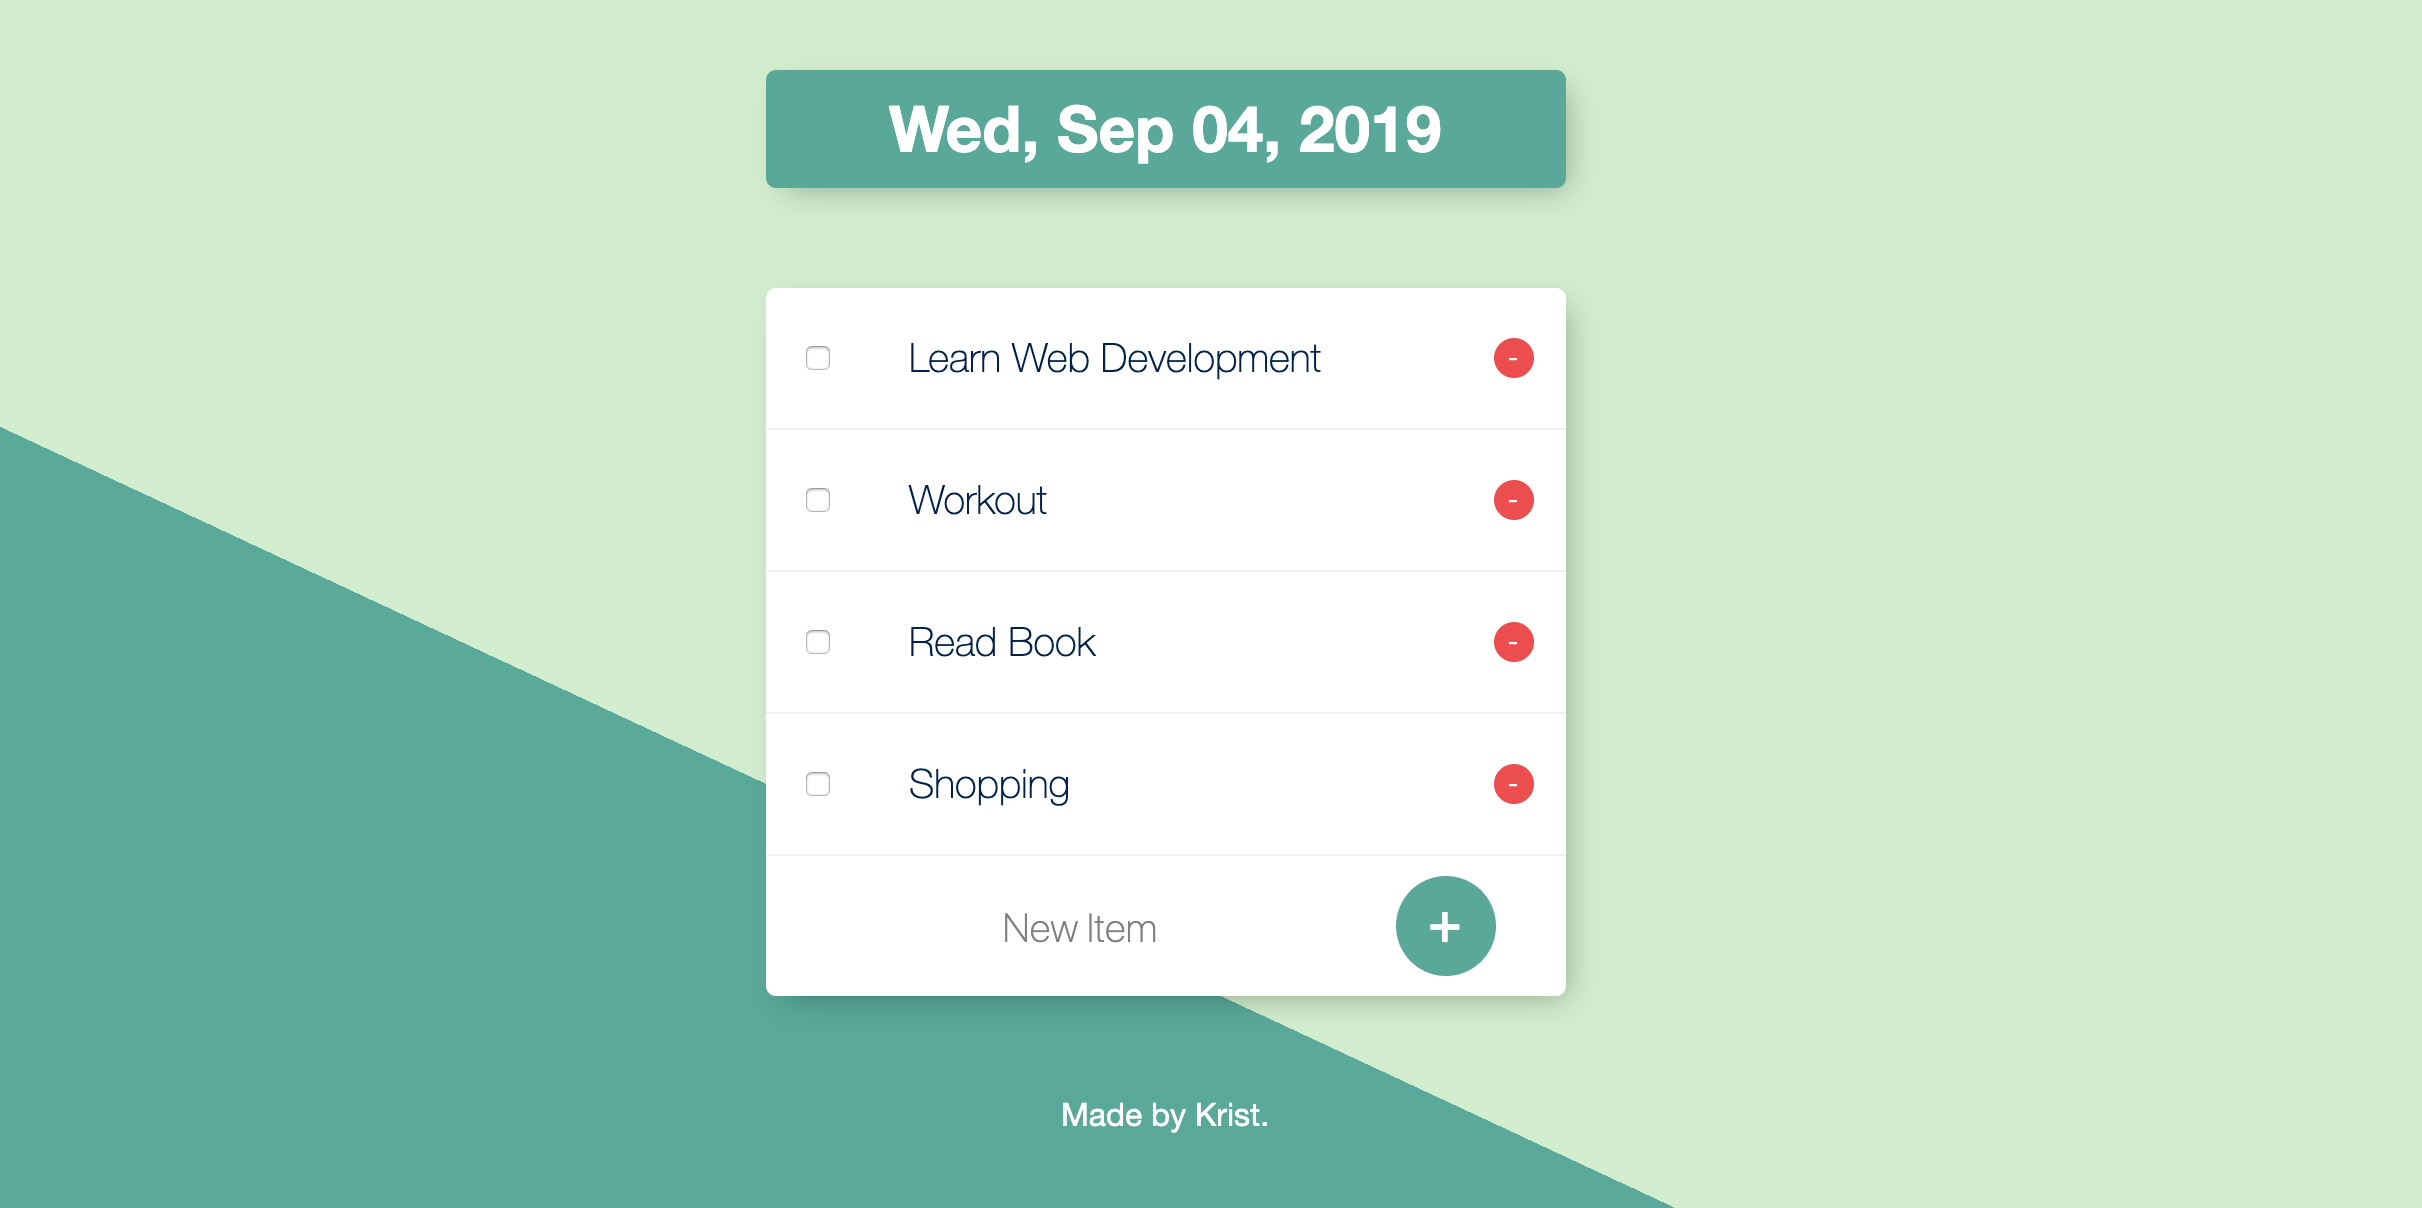
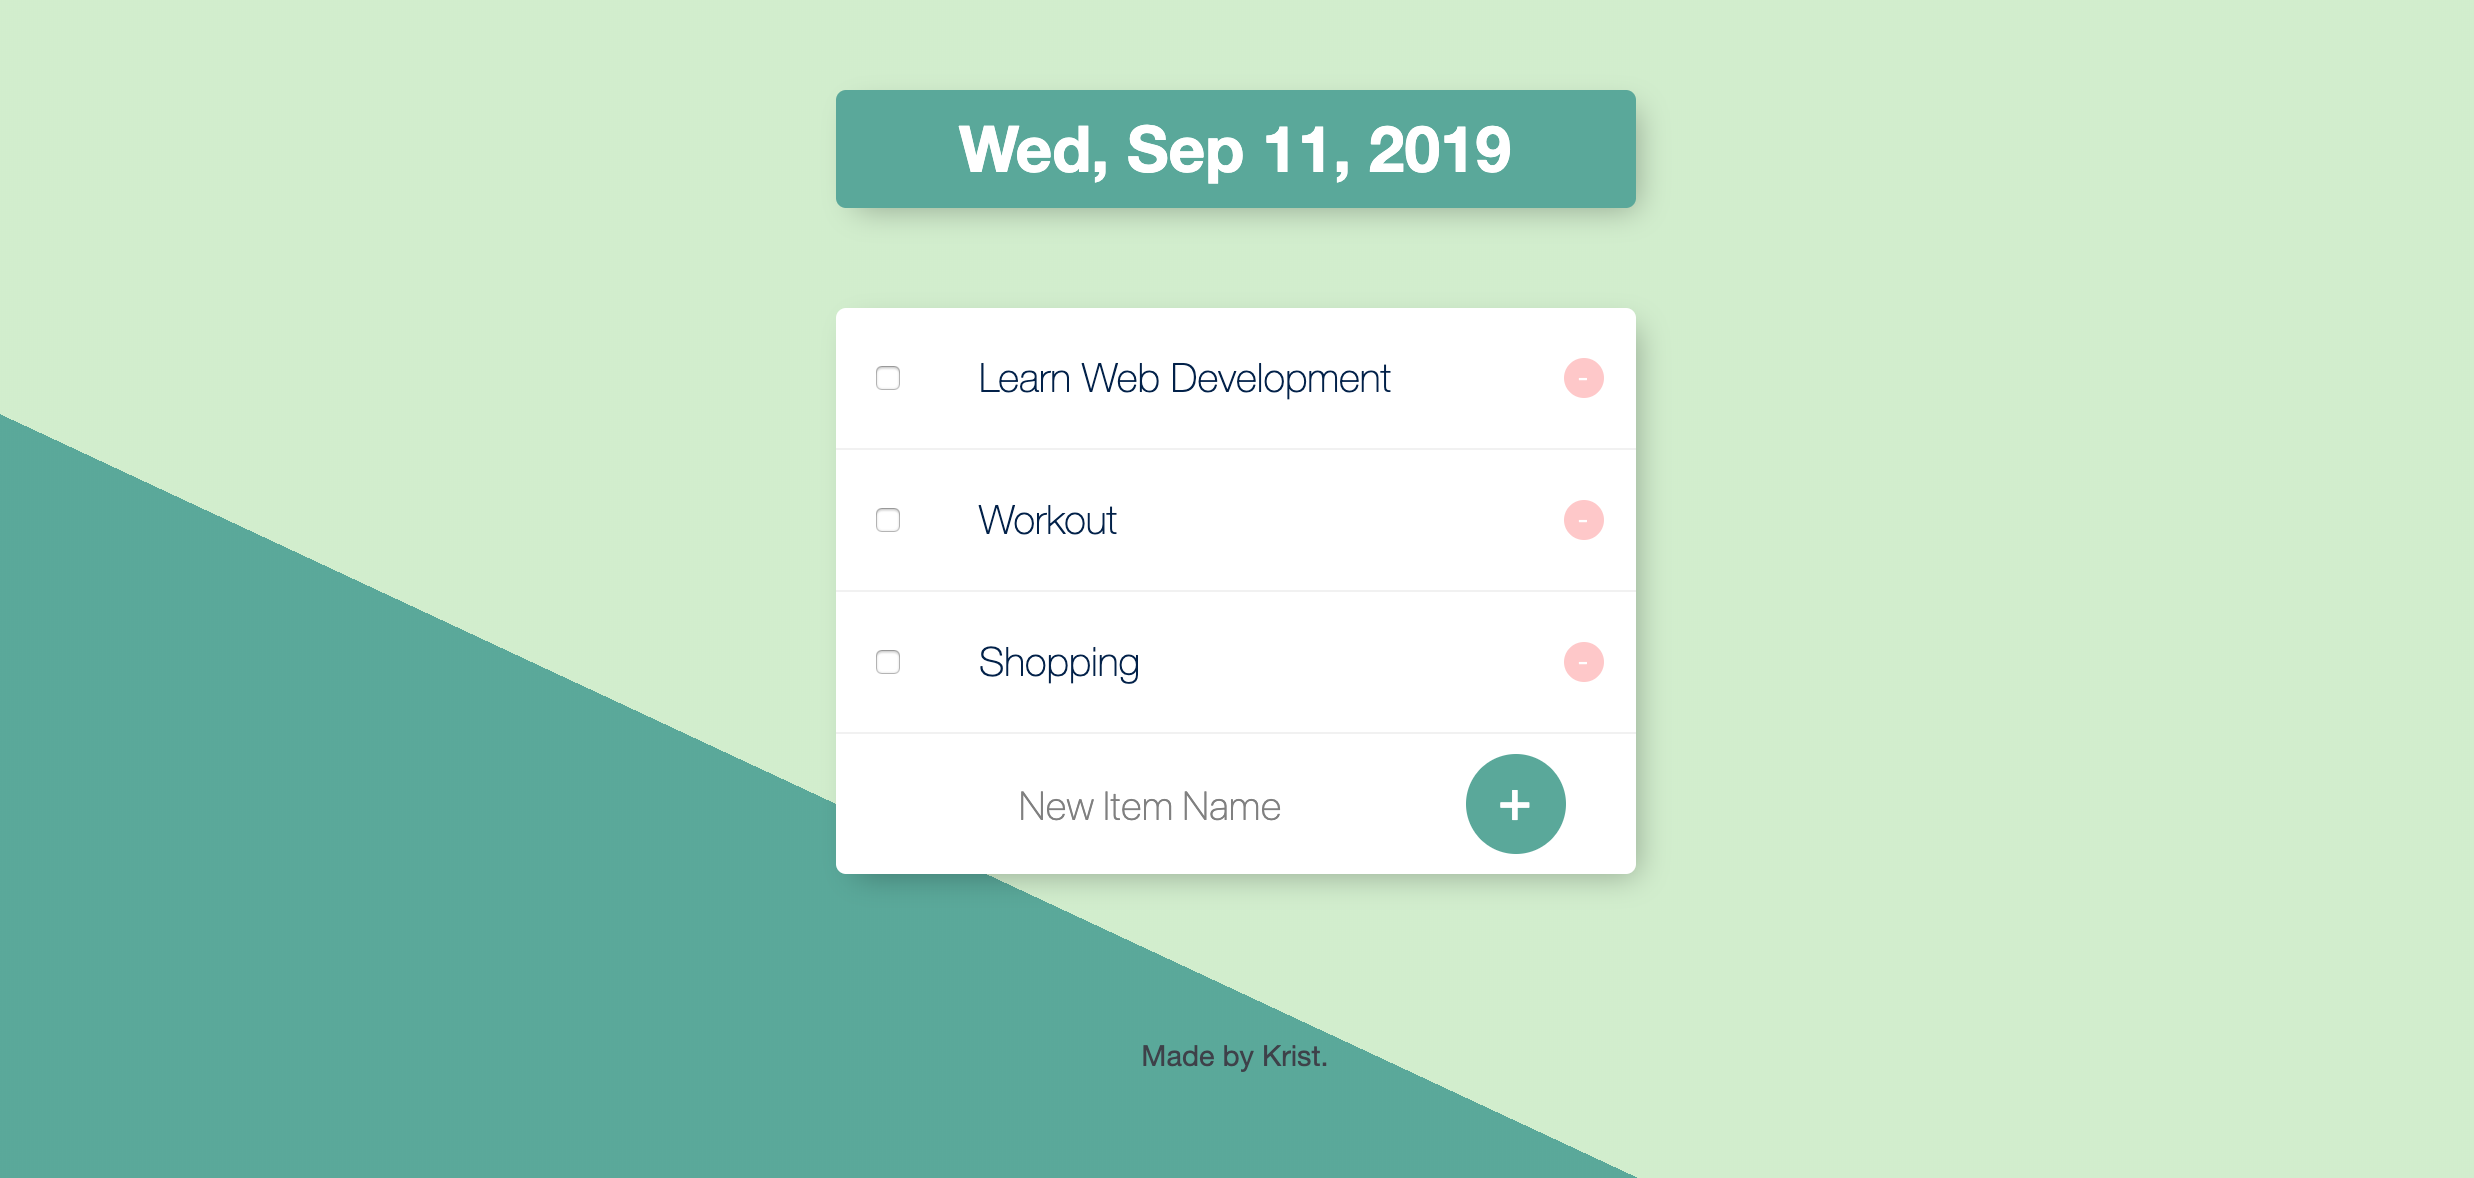
1. Implement database using Mongoose 2. Edit CSS: add hover status to buttons 3. Update screenshot 4. Delete the redundant demo file

diff --git a/app.js b/app.js
@@ -10,23 +10,57 @@ app.use(bodyParser.urlencoded({extended: true}));
 app.use(express.static("public"));
 app.set('view engine', 'ejs');
 
-var things = ["Learn Web Development", "Workout", "Shopping"];
+mongoose.connect("mongodb://localhost:27017/todolistDB", {
+  useNewUrlParser: true,
+  useUnifiedTopology: true
+});
+
+const itemSchema = {
+  name: {
+    type: String,
+    required: [true, "No Name Specified"]
+  }
+};
+
+const Item = mongoose.model("Item", itemSchema);
+
+// const item1 = new Item({ name: "Learn Web Development" });
+// const item2 = new Item({ name: "Workout" });
+// const item3 = new Item({ name: "Shopping" });
+// const defaultItems = [item1, item2, item3];
 
 app.get("/", function(req, res) {
-  res.render('index', {date: date.getDate(), things: things});
+  Item.find({}, function(err, foundItems) {
+    // if the item list is empty, return the default item list
+    // if(foundItems.length === 0) {
+    //   Item.insertMany(defaultItems, function(err) {
+    //     console.log("Successfully Saved Default Items to Database.");
+    //   });
+    //   res.redirect("/");
+    // } else {
+    //   res.render('index', {date: date.getDate(), items: foundItems});
+    // }
+    res.render('index', {date: date.getDate(), items: foundItems});
+  });
 });
 
 app.post("/", function(req, res) {
-  let newItem = req.body.newItem;
-  if (newItem) {
-    things.push(newItem);
+  let newItemName = req.body.newItemName;
+
+  if (newItemName) {
+    let newItem = new Item({name: newItemName});
+    newItem.save(function(err){
+      console.log("Successfully Saved New Item to Database.");
+    });
   }
   res.redirect("/");
 });
 
 app.post("/delete", function(req, res) {
-  let deleteItem = req.body.deleteItem;
-  things.splice(things.indexOf(deleteItem), 1);
+  let deleteItemId = req.body.deleteItemId;
+  Item.deleteOne({_id: deleteItemId}, function(err) {
+    console.log("Successfully Deleted Item from Database.");
+  });
   res.redirect("/");
 });
 

diff --git a/public/css/style.css b/public/css/style.css
@@ -68,14 +68,23 @@ p {
   border-width: 0;
 }
 
+.add-button:hover {
+  background-color: #66bfbf;
+}
+
 .delete-button {
   height: 20px;
   width: 20px;
   border-radius: 50%;
   border-color: transparent;
-  background-color: #ef4b4b;
+  background-color: #ffc8c8;
+
   color: #fff;
   border-width: 0;
+}
+
+.delete-button:hover {
+  background-color: #ef4b4b;
 }
 
 input[type="text"] {
@@ -100,7 +109,9 @@ input[type="text"]:focus {
 }
 
 footer {
+  padding-top: 2rem;
   width: 100%;
-  color: white;
+  color: #3e4149;
   text-align: center;
+  font-size: 0.9rem;
 }
